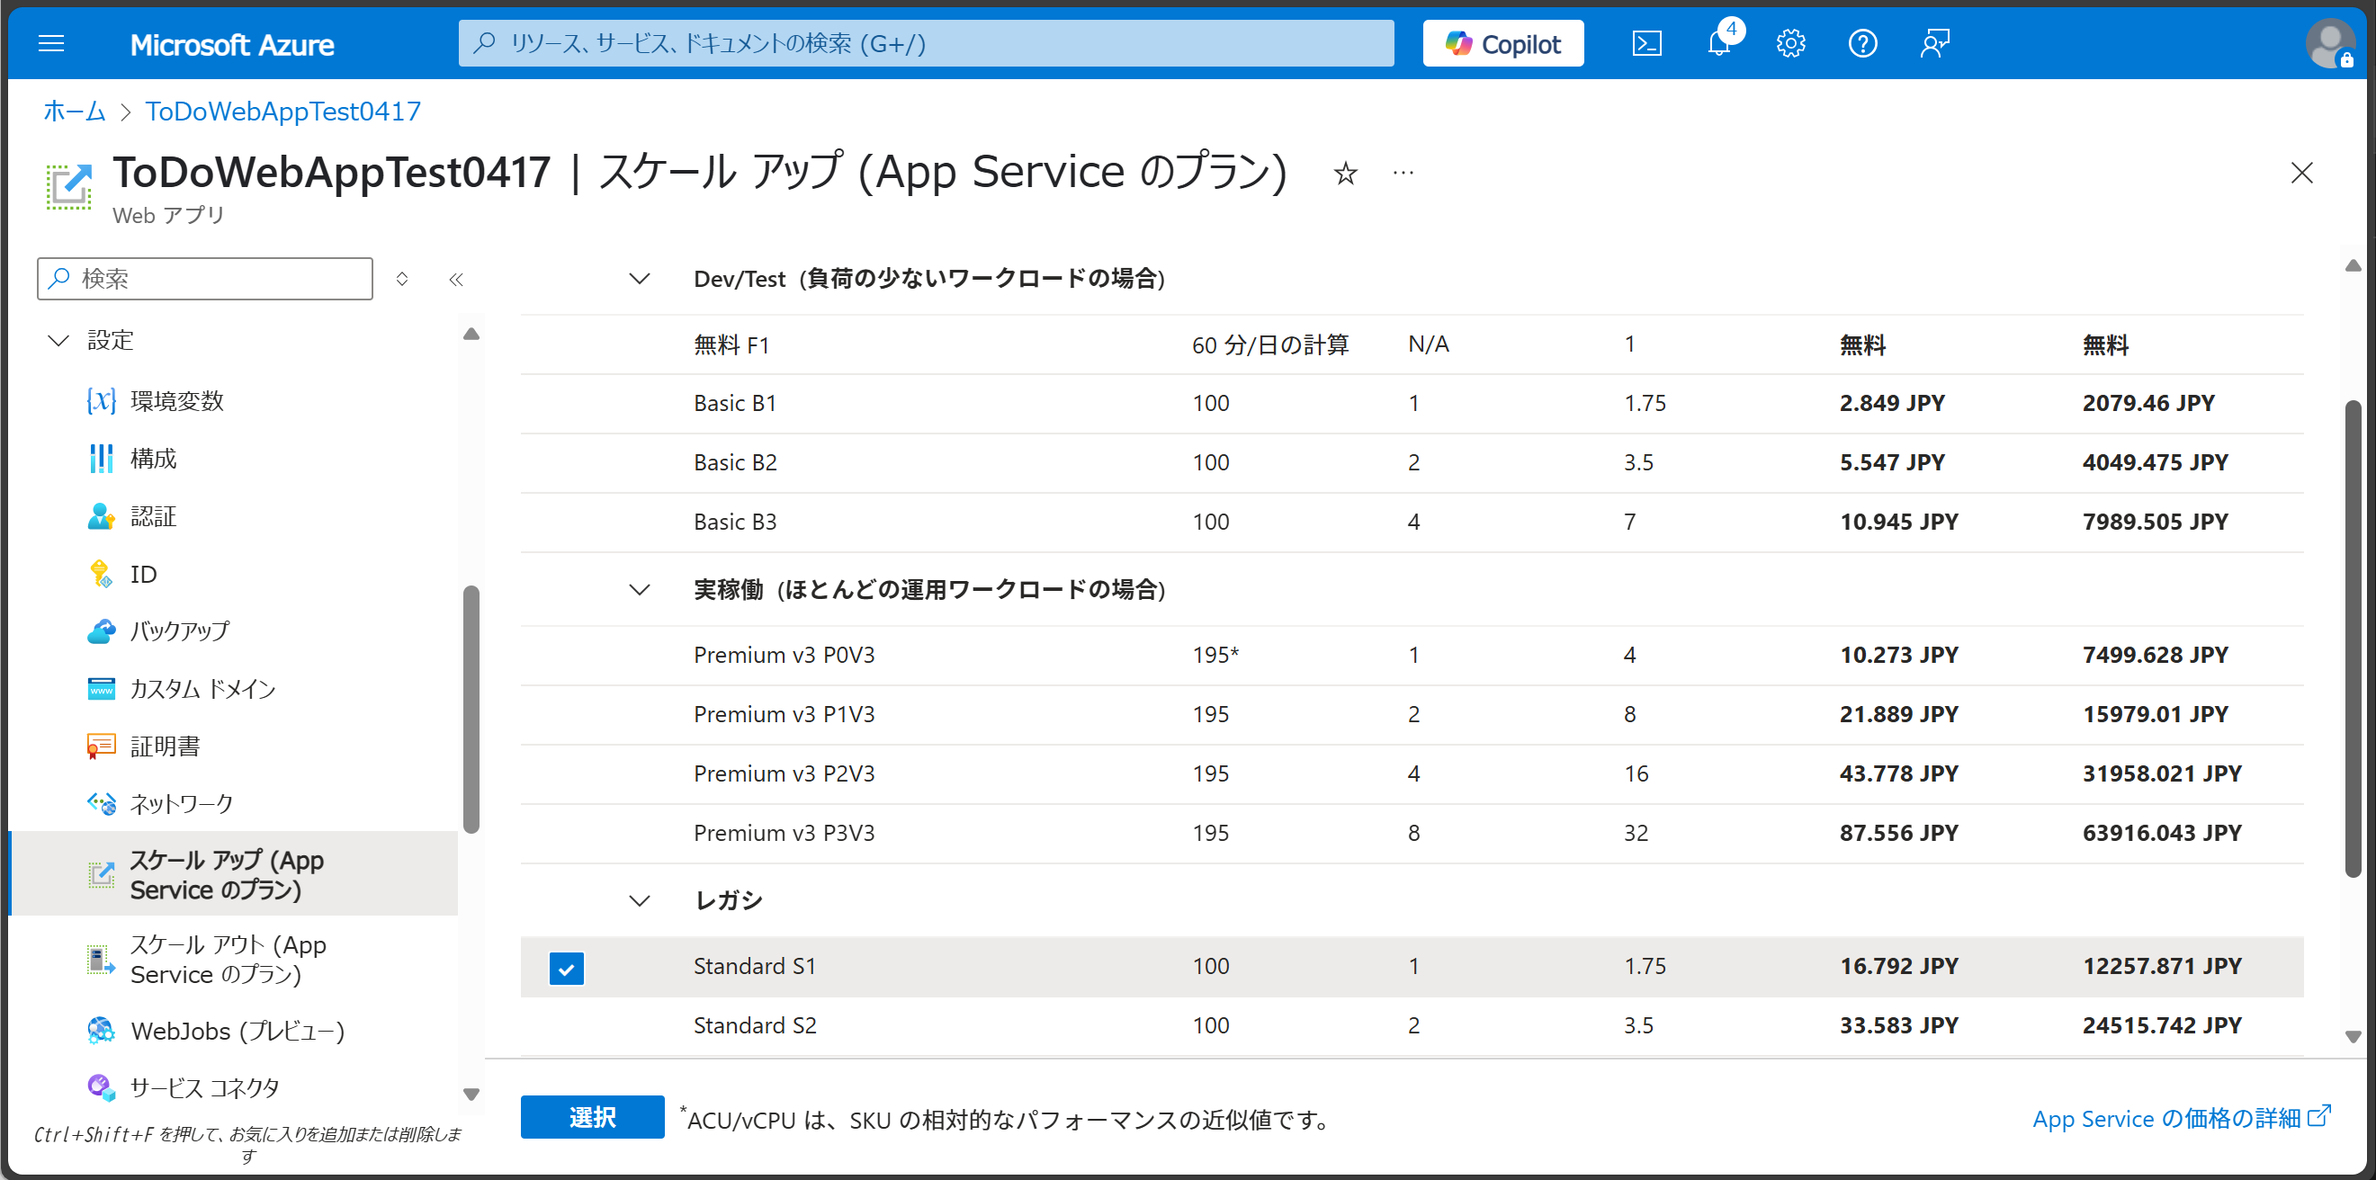
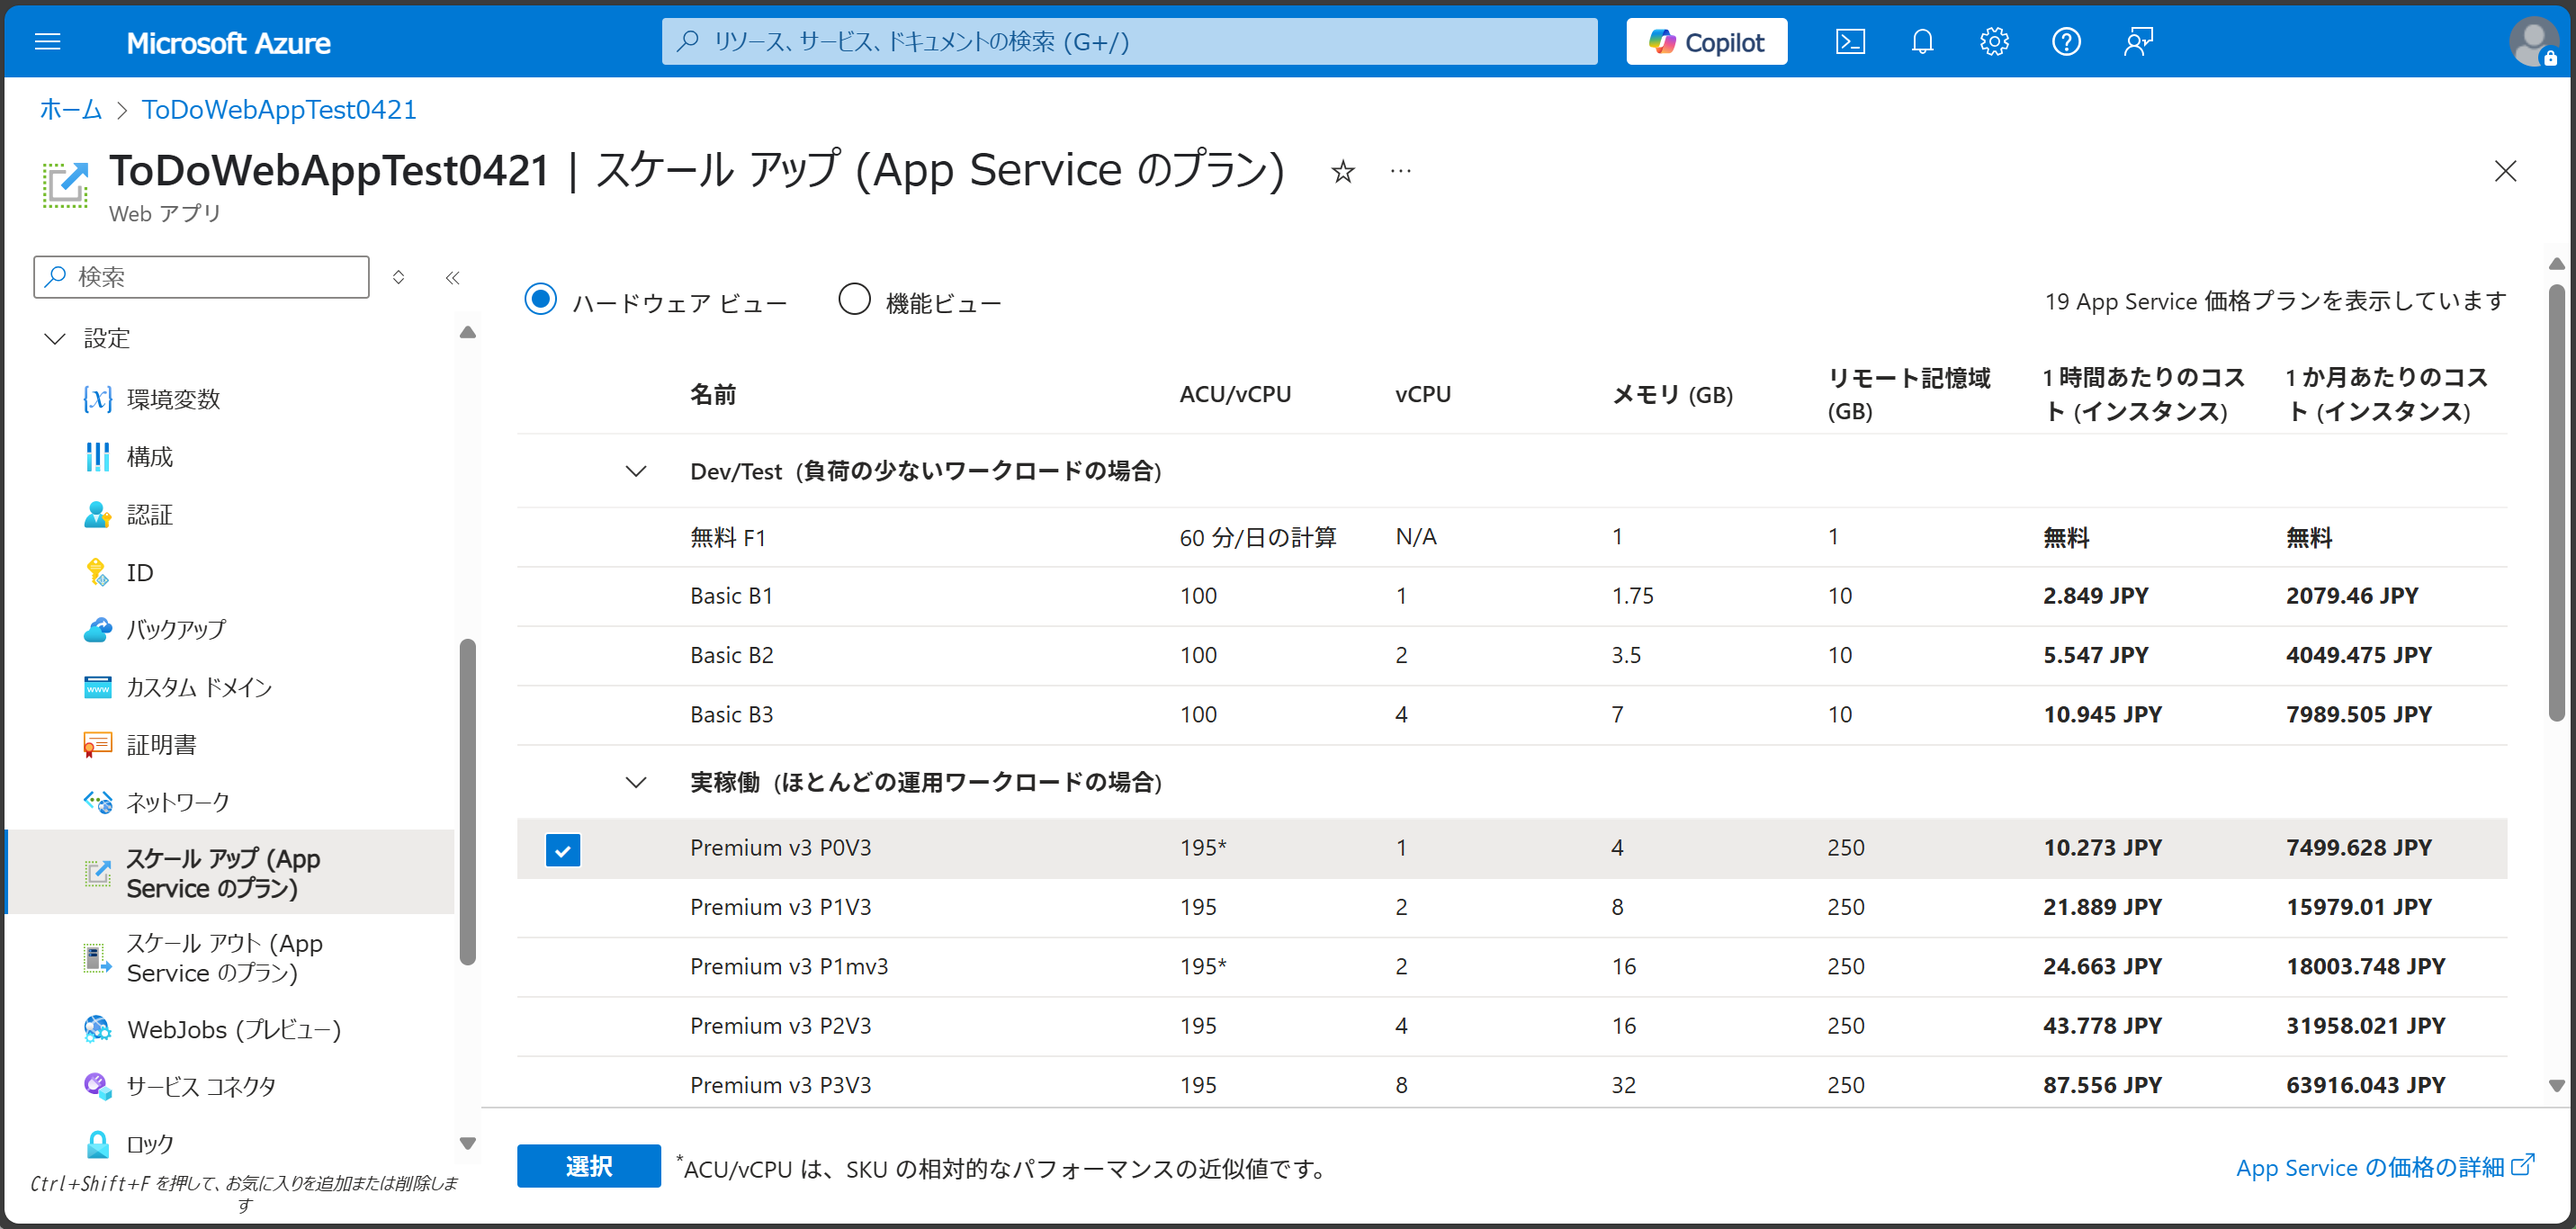
Changed App Service Plan to Premium v3 P0V3

diff --git a/docs/README.md b/docs/README.md
@@ -167,7 +167,7 @@
 
 ### デプロイ スロットの作成
 1. Azure ポータルにサインインして、作成した Web アプリの概要ページを開きます。
-2. 前の演習で作成した Web アプリの App Service のプランは `Basic B1` です。デプロイ スロットを使用するには、`Standard` プラン以上にアップグレードする必要があります。ページ左側のメニューから `設定` - `スケールアップ (App Service のプラン` を選択して、表示されるプランからデプロイ スロットが使用できる `Standard S1` を選択して、`選択` ボタンをクリックします。![App Service プランの変更](./images/App%20Service%20Plan.png)
+2. 前の演習で作成した Web アプリの App Service のプランは `Basic B1` です。デプロイ スロットを使用するには、`Standard` プラン以上にアップグレードする必要があります。ページ左側のメニューから `設定` - `スケールアップ (App Service のプラン` を選択して、表示されるプランからデプロイ スロットが使用できて最もコストが安い `Premium v3 P0V3` を選択して、`選択` ボタンをクリックします。![App Service プランの変更](./images/App%20Service%20Plan.png)
 3. 続いて、`アップグレード` ボタンをクリックして、プランの変更を適用します。![App Service プランの変更](./images/App%20Service%20Plan2.png)
 4. ページ左側のメニューから `デプロイ` - `デプロイ スロット` を選択し、表示されたページで `Add slot` をクリックします。![デプロイ スロット](./images/Deployment%20Slot.png)
 5. `Add Slot` ページが表示されますので、次の値を入力/選択して `Add` ボタンをクリックします。
